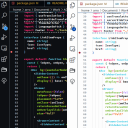
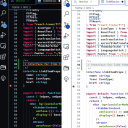
fix color brightness in light mode

diff --git a/CHANGELOG.md b/CHANGELOG.md
@@ -3,14 +3,19 @@
 All notable changes to the "monokai-hc-extreme" extension will be documented in this file.
 
 Check [Keep a Changelog](http://keepachangelog.com/) for recommendations on how to structure this file.
+ 
+## [1.2.1]:
+### Changed
+  - fix color brightness in light mode
+  - update icon and preview in marketplace
 
-## [Unreleased]
-
-- 1.2.1:
+## [1.2.1]:
+### Changed
   - fix deprecated background on light theme , contrast adjustement blue, red and green colors
 
-- 1.2.0:
+## [1.2.0]:
+### Changed
   - light color contrast adjustement on blue, green and violet colors
 
-
+## [1.0.0]
 - Initial release

diff --git a/README.md b/README.md
@@ -1,6 +1,6 @@
 # Monokai HC Extreme
 
-![alt text](https://i.im.ge/2022/10/04/1kNtJz.example.png)
+![alt text](images/preview.png)
 
 ## A new high contrast clear experience 
 This theme is tailored with the beautiful github high contrast theme for the editor joined with powerful monokai code highlight
